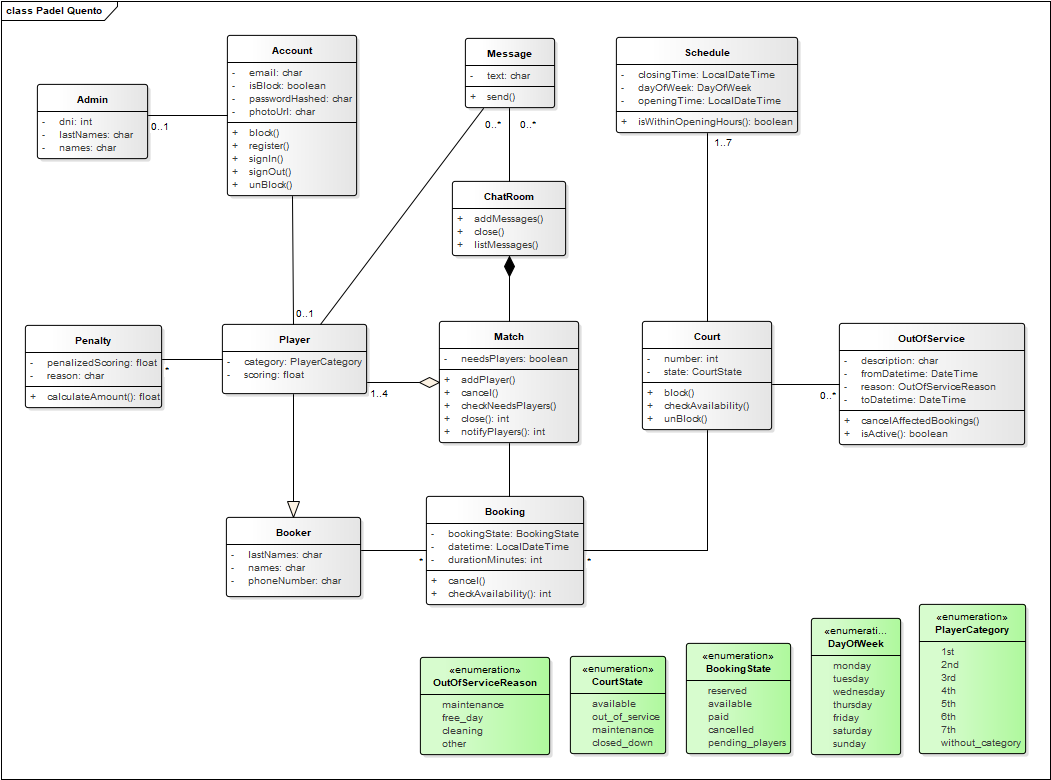
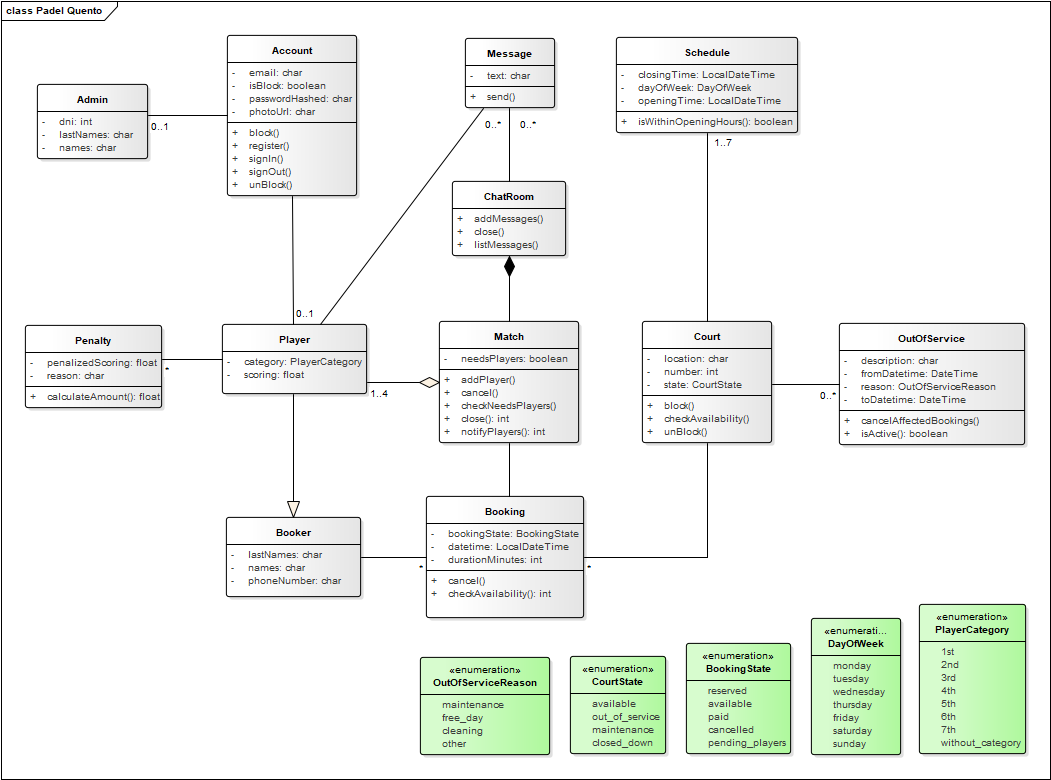
feat(court): agregar campo location al modelo y vistas para trazabilidad

Changed region(s): [[0.6089, 0.4308, 0.7307, 0.5846], [0.3958, 0.7692, 0.5785, 0.8]]

diff --git a/app/bookings/page.tsx b/app/bookings/page.tsx
@@ -1,5 +1,6 @@
 import { getServerSession } from "next-auth/next";
 import { redirect } from "next/navigation";
+import { MapPin } from "lucide-react";
 import { AppHeader } from "@/app/components/app-header";
 import { BookingsBoard } from "@/app/bookings/bookings-board";
 import { authOptions } from "@/src/lib/auth";
@@ -41,16 +42,43 @@ export default async function BookingsPage() {
         userRole={session.user.role}
       />
       <main className="mx-auto w-full max-w-7xl flex-1 px-6 py-10">
-        <h1 className="text-4xl font-extrabold tracking-tight text-foreground">
-          Turnos disponibles
-        </h1>
-        <p className="mt-1.5 text-foreground/60">
-          Elegí una fecha y una cancha para reservar tu turno
-        </p>
+        <div className="flex flex-col gap-4 sm:flex-row sm:items-center sm:justify-between">
+          <div>
+            <h1 className="text-4xl font-extrabold tracking-tight text-foreground">
+              Turnos disponibles
+            </h1>
+            <p className="mt-1.5 text-foreground/60">
+              Elegí una fecha y una cancha para reservar tu turno
+            </p>
+          </div>
+
+          <a
+            href="https://maps.google.com/?q=Cam.+Centenario+8907,+B1894+Villa+Elisa,+Provincia+de+Buenos+Aires"
+            target="_blank"
+            rel="noopener noreferrer"
+            className="flex items-center gap-3 rounded-2xl border border-line bg-card p-3.5 shadow-sm transition-all hover:border-primary/40 hover:shadow-md group"
+            title="Ver ubicación en Google Maps"
+          >
+            <div className="flex h-10 w-10 shrink-0 items-center justify-center rounded-xl bg-primary/10 text-primary transition-colors group-hover:bg-primary group-hover:text-white">
+              <MapPin className="h-5 w-5" />
+            </div>
+            <div className="flex flex-col">
+              <span className="text-xs font-semibold uppercase tracking-wider text-primary">
+                Ubicación del complejo
+              </span>
+              <span className="text-sm font-medium text-foreground">
+                Cam. Centenario 8907, B1894 Villa Elisa
+              </span>
+              <span className="text-xs text-foreground/50">
+                Provincia de Buenos Aires · Ver en mapa
+              </span>
+            </div>
+          </a>
+        </div>
 
         <BookingsBoard
           playerId={player?.id ?? null}
-          courts={courts.map((c) => ({ id: c.id, number: c.number, state: c.state }))}
+          courts={courts.map((c) => ({ id: c.id, number: c.number, state: c.state, location: c.location }))}
           schedules={schedules.map((s) => ({
             id: s.id,
             dayOfWeek: s.dayOfWeek,

diff --git a/app/my-bookings/booking-row.tsx b/app/my-bookings/booking-row.tsx
@@ -81,15 +81,22 @@ export function BookingRow({ booking, now }: { booking: MyBookingItem; now: Date
         </p>
       </div>
 
-      <div className="flex flex-col gap-1 sm:w-40">
+      <div className="flex flex-col gap-1 sm:w-48">
         <p className="flex items-center gap-1.5 text-sm text-foreground">
-          <Clock className="h-4 w-4 text-foreground/50" />
+          <Clock className="h-4 w-4 text-foreground/50 shrink-0" />
           {timeLabel(booking.fromDateTime)} – {timeLabel(end)}
         </p>
-        <p className="flex items-center gap-1.5 text-sm text-foreground">
-          <MapPin className="h-4 w-4 text-foreground/50" />
-          Cancha {booking.courtNumber}
-        </p>
+        <a
+          href="https://maps.google.com/?q=Cam.+Centenario+8907,+B1894+Villa+Elisa,+Provincia+de+Buenos+Aires"
+          target="_blank"
+          rel="noopener noreferrer"
+          className="flex items-center gap-1.5 text-sm text-foreground hover:text-primary transition-colors group"
+          title="Ver ubicación en Google Maps"
+        >
+          <MapPin className="h-4 w-4 text-primary shrink-0 group-hover:scale-110 transition-transform" />
+          <span>Cancha {booking.courtNumber}</span>
+          <span className="text-xs text-foreground/40">· Villa Elisa</span>
+        </a>
       </div>
 
       <div className="flex flex-col items-start gap-1.5">

diff --git a/app/chats/[chatId]/page.tsx b/app/chats/[chatId]/page.tsx
@@ -68,10 +68,16 @@ export default async function ChatPage({
             <div className="flex-1">
               <h1 className="text-base font-extrabold text-foreground">Chat del partido</h1>
               <p className="mt-0.5 flex flex-wrap items-center gap-x-3 gap-y-0.5 text-xs text-foreground/60">
-                <span className="flex items-center gap-1">
-                  <MapPin className="h-3.5 w-3.5" />
-                  Cancha {booking.court?.number}
-                </span>
+                <a
+                  href="https://maps.google.com/?q=Cam.+Centenario+8907,+B1894+Villa+Elisa,+Provincia+de+Buenos+Aires"
+                  target="_blank"
+                  rel="noopener noreferrer"
+                  className="flex items-center gap-1 hover:text-primary transition-colors"
+                  title="Ver en Google Maps"
+                >
+                  <MapPin className="h-3.5 w-3.5 text-primary" />
+                  Cancha {booking.court?.number} · Villa Elisa
+                </a>
                 <span className="flex items-center gap-1">
                   <Calendar className="h-3.5 w-3.5" />
                   {formatLongDate(booking.fromDateTime)}

diff --git a/app/bookings/join-match-panel.tsx b/app/bookings/join-match-panel.tsx
@@ -1,4 +1,4 @@
-import { Banknote, Calendar, Clock, LayoutGrid, Users } from "lucide-react";
+import { Banknote, Calendar, Clock, LayoutGrid, MapPin, Users } from "lucide-react";
 import { OPEN_MATCH_MAX_PLAYERS } from "@/src/domain/constants";
 import { formatLongDate, minutesToTimeLabel } from "@/app/bookings/slot-utils";
 import type { SelectedOpenMatch } from "@/app/bookings/types";
@@ -51,6 +51,11 @@ export function JoinMatchPanel({
           icon={<LayoutGrid className="h-5 w-5" />}
           label="Cancha"
           value={`Cancha ${selectedMatch.courtNumber}`}
+        />
+        <SummaryRow
+          icon={<MapPin className="h-5 w-5" />}
+          label="Ubicación"
+          value={selectedMatch.courtLocation ?? "Cam. Centenario 8907, Villa Elisa"}
         />
         <SummaryRow
           icon={<Clock className="h-5 w-5" />}

diff --git a/app/bookings/booking-summary.tsx b/app/bookings/booking-summary.tsx
@@ -1,4 +1,4 @@
-import { Banknote, Calendar, Clock, LayoutGrid, Users } from "lucide-react";
+import { Banknote, Calendar, Clock, LayoutGrid, MapPin, Users } from "lucide-react";
 import { OPEN_MATCH_MAX_PLAYERS } from "@/src/domain/constants";
 import {
   SLOT_DURATION_MINUTES,
@@ -56,6 +56,11 @@ export function BookingSummary({
             icon={<LayoutGrid className="h-5 w-5" />}
             label="Cancha"
             value={`Cancha ${selectedSlot.courtNumber}`}
+          />
+          <SummaryRow
+            icon={<MapPin className="h-5 w-5" />}
+            label="Ubicación"
+            value={selectedSlot.courtLocation ?? "Cam. Centenario 8907, Villa Elisa"}
           />
           <SummaryRow
             icon={<Clock className="h-5 w-5" />}

diff --git a/app/bookings/bookings-board.tsx b/app/bookings/bookings-board.tsx
@@ -172,6 +172,7 @@ export function BookingsBoard({
         bookingId: slot.bookingId!,
         courtId: court.id,
         courtNumber: court.number,
+        courtLocation: court.location,
         start: slot.start,
         end: slot.end,
         confirmedPlayers: slot.confirmedPlayers ?? 0,
@@ -189,7 +190,13 @@ export function BookingsBoard({
 
     setSelectedOpenMatch(null);
     setJoinGroupSize(1);
-    setSelectedSlot({ courtId: court.id, courtNumber: court.number, start: slot.start, end: slot.end });
+    setSelectedSlot({
+      courtId: court.id,
+      courtNumber: court.number,
+      courtLocation: court.location,
+      start: slot.start,
+      end: slot.end,
+    });
     setIsOpenMatch(false);
     setOpenMatchGroupSize(1);
   }

diff --git a/app/bookings/court-card.tsx b/app/bookings/court-card.tsx
@@ -1,3 +1,4 @@
+import { MapPin } from "lucide-react";
 import { CourtState } from "@/src/domain/enums";
 import { minutesToTimeLabel } from "@/app/bookings/slot-utils";
 import type { CourtProp, Slot } from "@/app/bookings/types";
@@ -27,6 +28,10 @@ export function CourtCard({
         </span>
       </div>
       <p className="mt-0.5 text-sm text-foreground/60">Pista de pádel · Nivel estándar</p>
+      <p className="mt-1 flex items-center gap-1.5 text-xs text-foreground/50">
+        <MapPin className="h-3.5 w-3.5 shrink-0 text-primary" />
+        <span className="truncate">{court.location ?? "Cam. Centenario 8907, Villa Elisa"}</span>
+      </p>
 
       <div className="mt-4 border-t border-line pt-4">
         {slots.length === 0 ? (

diff --git a/app/bookings/types.ts b/app/bookings/types.ts
@@ -1,6 +1,6 @@
 import { BookingState, CourtState, DayOfWeek } from "@/src/domain/enums";
 
-export type CourtProp = { id: number; number: number; state: CourtState };
+export type CourtProp = { id: number; number: number; state: CourtState; location?: string };
 
 export type ScheduleProp = {
   id: number;
@@ -47,6 +47,7 @@ export type Slot = {
 export type SelectedSlot = {
   courtId: number;
   courtNumber: number;
+  courtLocation?: string;
   start: Date;
   end: Date;
 };
@@ -55,6 +56,7 @@ export type SelectedOpenMatch = {
   bookingId: number;
   courtId: number;
   courtNumber: number;
+  courtLocation?: string;
   start: Date;
   end: Date;
   confirmedPlayers: number;

diff --git a/src/actions/court.ts b/src/actions/court.ts
@@ -10,6 +10,7 @@ import { toPlain, type ActionResult } from "@/src/lib/action-result";
 export type CreateCourtInput = {
   number: number;
   state?: CourtState;
+  location?: string;
 };
 
 export type UpdateCourtInput = Partial<CreateCourtInput>;
@@ -24,6 +25,7 @@ export async function createCourt(
     const court = courts.create({
       number: input.number,
       state: input.state ?? CourtState.AVAILABLE,
+      location: input.location ?? "Cam. Centenario 8907, B1894 Villa Elisa, Provincia de Buenos Aires",
     });
 
     const saved = await courts.save(court);

diff --git a/scripts/seed.ts b/scripts/seed.ts
@@ -21,7 +21,13 @@ async function main() {
   for (let number = 1; number <= COURT_COUNT; number++) {
     const exists = await courts.findOne({ where: { number } });
     if (exists) continue;
-    await courts.save(courts.create({ number, state: CourtState.AVAILABLE }));
+    await courts.save(
+      courts.create({
+        number,
+        state: CourtState.AVAILABLE,
+        location: "Cam. Centenario 8907, B1894 Villa Elisa",
+      }),
+    );
     courtsCreated++;
   }
 

diff --git a/src/entities/Court.ts b/src/entities/Court.ts
@@ -13,6 +13,13 @@ export class Court {
   @Column({ type: "enum", enum: CourtState })
   state!: CourtState;
 
+  @Column({
+    type: "varchar",
+    length: 255,
+    default: "Cam. Centenario 8907, B1894 Villa Elisa, Provincia de Buenos Aires",
+  })
+  location!: string;
+
   @OneToMany("Booking", (booking: any) => booking.court)
   bookings!: any[];
 
